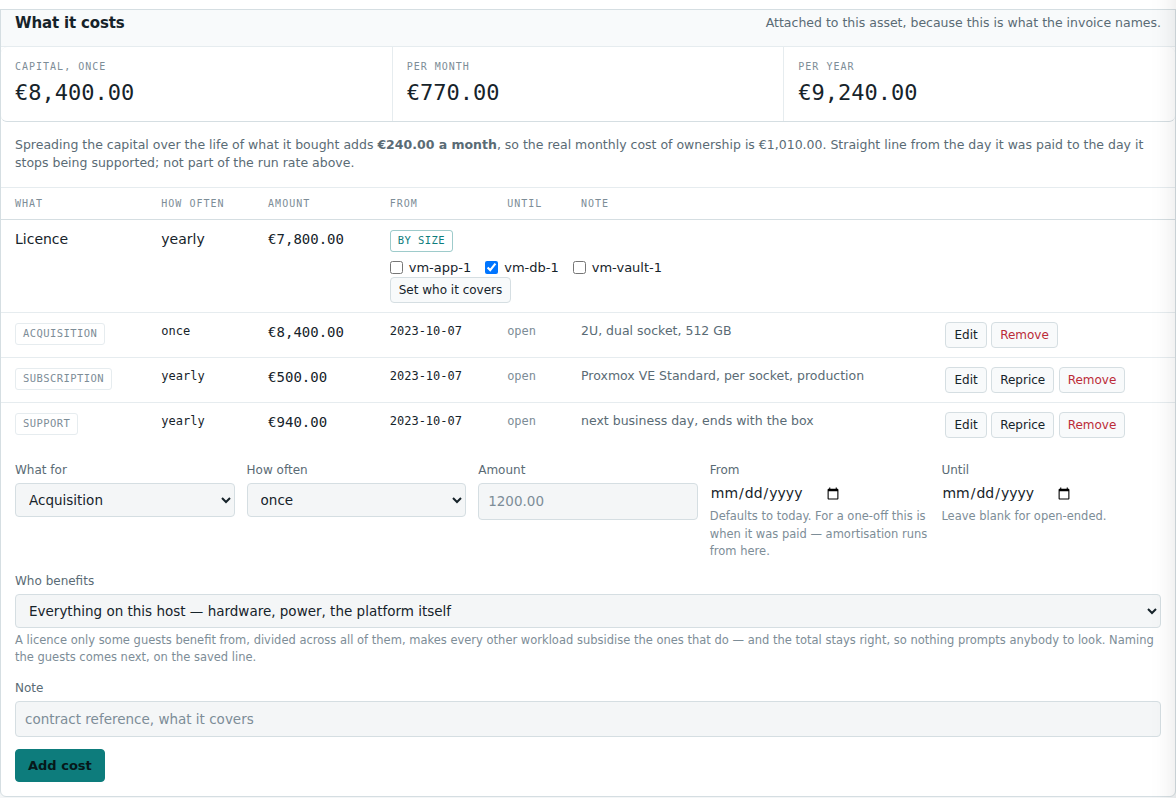
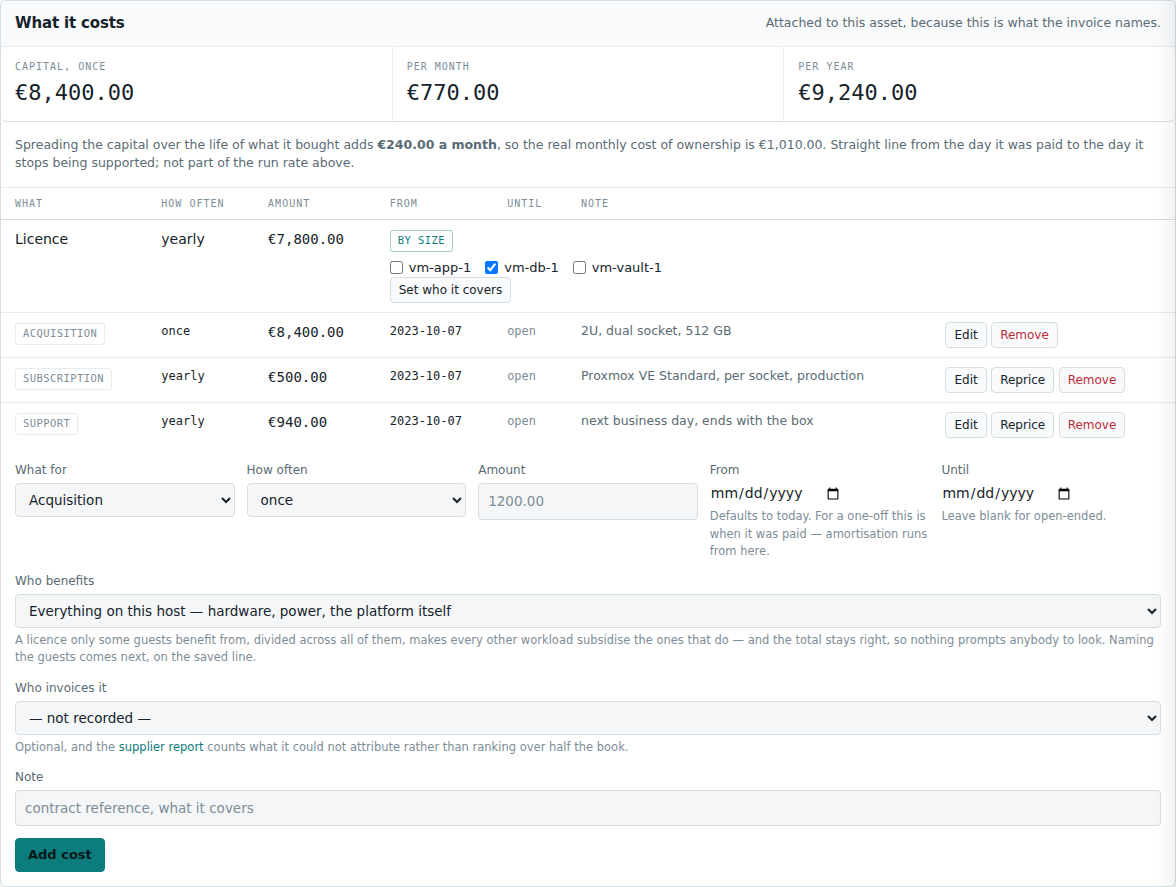
Manual: the supplier report, and the picker on every cost line
Money gains a section for WP-J6: where the supplier reference lives and why
it is on the line rather than the asset, the three things about the figures
that stop somebody misreading them (weighted, not averaged; steady is not
0%; a history that changed hands is excluded), and the line at the top that
keeps the rest honest -- what it could not rank.

The cost panel capture was retaken because it grew a second picker. It
needed a taller window: an element screenshot scrolls its target to the top
of the viewport, where the sticky search bar paints over it, and the first
attempt lost the panel's own heading to the overlay.

Four fragments were flagged only because they depend on files J6 touched.
Checked each against what its captures actually show -- none of them contains
a cost panel or the Reports group -- and left their prose alone. network
gained two sentences, because a circuit's line names its supplier too and
that is normally but not always the provider at the top of the page.

Claude-Session: https://claude.ai/code/session_01E3MV6VbivyKpFZtyNcLK9D

diff --git a/docs/manual/parts/60-money.md b/docs/manual/parts/60-money.md
@@ -18,7 +18,7 @@ A cost line is attached to whatever the invoice names — an asset, a service, a
 project, or a circuit. It is not attached to what you wish the invoice had
 named, and that is why the totals reconcile.
 
-![The cost panel on a hypervisor. Three figures across the top — CAPITAL, ONCE €8,400.00; PER MONTH €770.00; PER YEAR €9,240.00 — followed by a sentence saying that spreading the capital adds €240.00 a month, so the real monthly cost of ownership is €1,010.00. Below, a table of lines: a yearly licence of €7,800.00 tagged BY SIZE with checkboxes for vm-app-1, vm-db-1 and vm-vault-1; an acquisition of €8,400.00 once; a €500.00 yearly subscription; a €940.00 yearly support contract.](../img/money-1-asset-cost.png)
+![The cost panel on a hypervisor. Three figures across the top — CAPITAL, ONCE €8,400.00; PER MONTH €770.00; PER YEAR €9,240.00 — followed by a sentence saying that spreading the capital adds €240.00 a month, so the real monthly cost of ownership is €1,010.00. Below, a table of lines: a yearly licence of €7,800.00 tagged BY SIZE with checkboxes for vm-app-1, vm-db-1 and vm-vault-1; an acquisition of €8,400.00 once; a €500.00 yearly subscription; a €940.00 yearly support contract. Each line names who invoices it, and the add form carries a "Who invoices it" picker alongside "Who benefits".](../img/money-1-asset-cost.png)
 
 **A one-off is never folded into a run rate.** €8,400 spent once is not €700 a
 month, and a page that quietly averaged it would make a five-year-old server
@@ -80,6 +80,40 @@ figures for your currency and invents none.
 Editing a line instead of repricing it is still there and still right — for
 correcting a number that was wrong when it was typed. The distinction is whether
 the old figure was *true then*: if it was, reprice; if it never was, correct it.
+
+### Which suppliers raise prices beyond inflation
+
+The price-movement panel answers that for one thing. **Reports → Suppliers**
+answers it for the estate, by asking who invoiced each line.
+
+![The supplier report. A warning panel reads "What this ranking does not cover — 85 cost line(s) name no supplier, worth €11,197.67 a month." Below, a table headed "Worst first": Nordic IT Partner at €3,020.00 a month across 10 lines, 1 moved, 23% nominal and 21% real, tagged BEYOND INFLATION; then GlobalConnect, Nordvind Fiber, Telenor, Altibox, Hetzner Online and Scaleway, each reading "steady" with a dash for real.](../img/money-7-suppliers.png)
+
+Set the supplier on a cost line — the *"who invoices it"* picker, on any asset,
+service, project or circuit — and it appears here.
+
+**The supplier is on the line, not on the box.** One server routinely carries
+hardware bought from a reseller, support from the manufacturer and a licence
+from a third party: three suppliers, three price histories, one asset. `vendor`
+on an asset says who made or sold it, which is a different question and is not
+what this report reads.
+
+Three things about the figures:
+
+- **Movement is weighted by what each line costs.** A €40 line that doubled
+  beside a €4,000 line up 2% is a 2% rise, not 26%. An unweighted average hands
+  you a grievance built out of a rounding error on a small invoice, which is
+  the opposite of what a decision to leave a supplier needs.
+- **"Steady" is not 0%.** A supplier whose lines have never been repriced has no
+  movement to judge, which is a different fact from one whose prices held. The
+  dash in the real column says the same thing.
+- **A price history that changed hands is excluded**, and counted separately. If
+  you moved a contract to a new reseller and the figure jumped, that is a switch
+  — not the new supplier raising its price. Crediting it to them would
+  manufacture the very accusation this report exists to test.
+
+And the line at the top is the one that keeps the rest honest: **what it could
+not rank.** A ranking over part of the book reads exactly like a ranking over
+all of it.
 
 ## How big things are
 

diff --git a/docs/manual/parts/40-network.md b/docs/manual/parts/40-network.md
@@ -62,6 +62,11 @@ renewal, so the page carries the same reprice action and price-movement panel an
 asset has: the old figure is closed rather than overwritten, and the rise is
 shown against inflation as well as in cash. See **Money** for how that reads.
 
+Each cost line also names **who invoices it**, which for a circuit is normally
+the provider already at the top of the page — but not always, since transit is
+sometimes billed through a reseller. Naming it is what puts the circuit into the
+supplier ranking; see **Money**.
+
 **A circuit can belong to a project, and the link is made from the project's
 page rather than this one** — the circuit page says nothing about it. Until the
 link exists, the connectivity a project depends on costs it nothing on paper,
